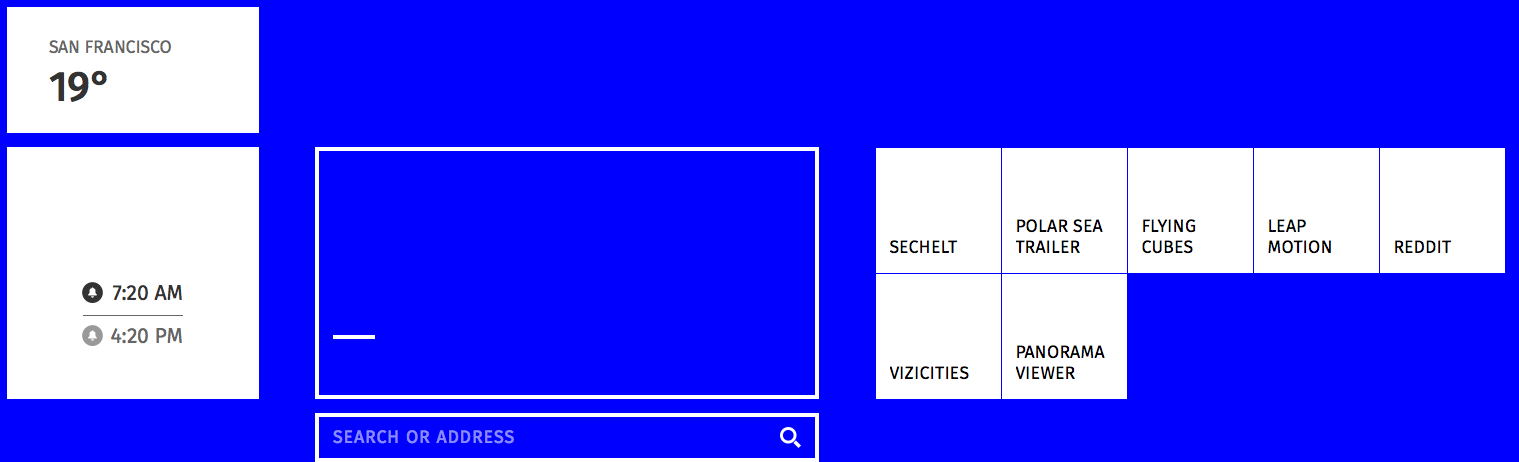
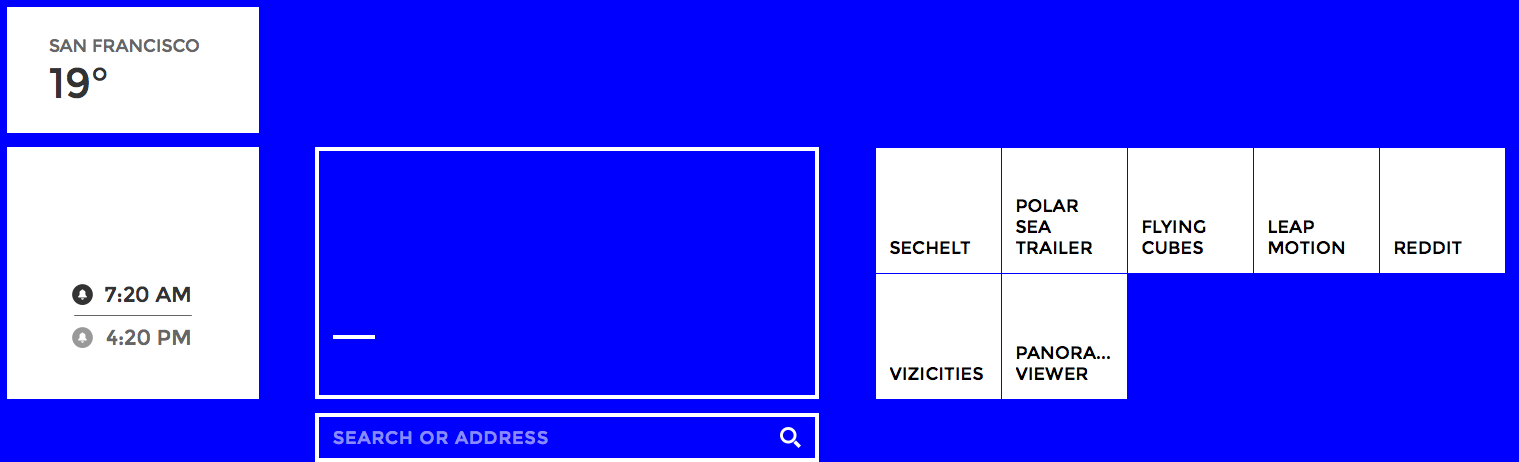
merge pr22, intro page, changed to Montserrat

diff --git a/css/hiro.css b/css/hiro.css
@@ -1,6 +1,7 @@
 html, body {
   height: 100%;
-  font-family: Fira Sans;
+  font-family: 'Montserrat', sans-serif;
+  font-weight: 400;
 }
 
 body {
@@ -9,58 +10,18 @@ body {
   background: #333;
   overflow: hidden;
   margin: 0;
-  font-size: 10px;
-}
-
-.launch {
-  width: 100%;
-  position: absolute;
-  bottom: 0px;
-  left: 0px;
-  text-align: center;
-}
-
-#launch-button {
-  background: #fff;
-  color: #000;
-  width: 200px;
-  height: 40px;
-  font-size: 1.25rem;
-  border: 0;
-  cursor: pointer;
-  text-transform: uppercase;
+  font-size: 12px;
 }
 
 
-#launch-button:hover, #launch-button:active {
-  background: #00CAF2;
-  color: #fff;
-}
+/*---------- CONTAINER ----------*/
 
-.instruction {
-  color: #fff;
-  font-size: 1rem;
-  display: inline-block;
-  margin-top: 1rem;
-  text-transform: uppercase;
-}
-.instruction-letter {
-  display: inline-block;
-  width: 2rem;
-  height: 2rem;
-  line-height: 2rem;
-  border: 1px solid white;
-  margin-bottom: 2rem;
-}
-
-/* containing element that will be made fullscreen */
-#container {
+#container { /* containing element that will be made fullscreen */
 }
 
 #container:-moz-full-screen, #container:-webkit-full-screen {
   cursor: none; /* hides cursor in fullscreen VR mode */
 }
-
 
 .fit {
   position: absolute;
@@ -76,6 +37,83 @@ body {
   left: 0;
   width: 100%;
   height: 100%;
+}
+
+
+/*---------- LAUNCH ----------*/
+
+#launch {
+  width: 100%;
+  position: absolute;
+  bottom: 0px;
+  left: 0px;
+  text-align: center;
+}
+
+#logo {
+  background: url('/content/landing/images/hiro-logo-1.svg') 50% 100% no-repeat;
+  width: 500px;
+  height: 200px;
+  display: inline-block;
+  margin: 0;
+}
+
+#tagline {
+  color: white;
+  font-size: 1rem;
+  text-transform: uppercase;
+  letter-spacing: 0.1rem;
+  margin: 1.5rem;
+
+}
+
+#launch-button {
+  font-family: 'Montserrat', sans-serif;
+  font-weight: 400;
+  background: rgba( 255, 255, 255, 0 );
+  color: #fff;
+  font-size: 2.5rem;
+  letter-spacing: 0.05rem;
+  padding: 0.5rem 1.5rem;
+  border: 0.4rem solid white;
+  text-transform: uppercase;
+  cursor: pointer;
+  box-shadow: -0.5rem 0.5rem 0px rgba( 255, 255, 255, 0.25 );
+}
+
+#launch-button:hover, #launch-button:active {
+  color: rgba( 23, 150, 218, 1 );
+  background: #fff;
+}
+
+#launch-credits {
+  color: white;
+  text-transform: uppercase;
+  letter-spacing: 0.1rem;
+  font-size: 0.8rem;
+  line-height: 1.25rem;
+  padding: 4rem 0 10rem;
+}
+
+#launch-credits b {
+  font-weight: 700;
+}
+
+.instruction {
+  color: #fff;
+  font-size: 1rem;
+  display: inline-block;
+  margin-top: 1rem;
+  text-transform: uppercase;
+}
+
+.instruction-letter {
+  display: inline-block;
+  width: 2rem;
+  height: 2rem;
+  line-height: 2rem;
+  border: 1px solid white;
+  margin-bottom: 2rem;
 }
 
 

diff --git a/index.html b/index.html
@@ -5,7 +5,7 @@
     <title>JAVRIS</title>
     <meta charset="utf-8">
     <link rel="stylesheet" href="css/hiro.css">
-    <link rel="stylesheet" href="fonts/fira/fira.css">
+    <link href='http://fonts.googleapis.com/css?family=Montserrat:400,700' rel='stylesheet' type='text/css'>
   </head>
   <body>
     <!-- this is a containing element that will be made fullscreen -->
@@ -16,14 +16,28 @@
       <!-- This is the container in which all the UI elements load into -->
       <div id="ui" class="fit"></div>
 
-    </div>
-    <div class="launch">
-      <button id="launch-button">Launch VR</button>
+      </div>
+      <div id="launch">
 
-      <br/>
+        <div id="logo"></div>
+        <br/>
+        <div id="tagline">Step into the web</div>
 
-      <div class="instruction">
-        <span class="instruction-letter">Z</span> &nbsp; to center view
+        <br/>
+
+        <button id="launch-button">Enter VR</button>
+
+        <br/>
+
+        <div id="launch-credits">
+
+          Mozilla Research Presents a Virtual Reality Web Experiment<br/>
+          Josh Carpenter  |  Casey Yee  |  Matthew Claypotch<br/>
+          vlad Vukivevic  |  Diego Marcos  |  Ricardo Cabello<br/>
+          <b>Built with WebGL</b>
+
+        </div>
+
       </div>
     </div>
 

diff --git a/content/startup/js/startup_old.js b/content/startup/js/startup_old.js
@@ -4,20 +4,24 @@ function startup() {
 	var worldGeo;
 
 	//background sphere
-
 	worldGeo = new THREE.SphereGeometry( 490, 60, 40 );
 	worldGeo.applyMatrix( new THREE.Matrix4().makeScale( -1, 1, 1 ) );
-	var worldMat = new THREE.MeshBasicMaterial( { transparent: true, opacity: 1, map: THREE.ImageUtils.loadTexture( 'images/bg-3.jpg' ) } );
+	var worldMat = new THREE.MeshBasicMaterial( { transparent: true, opacity: 0, map: THREE.ImageUtils.loadTexture( 'images/sechelt-360-2.png' ) } );
 	var world = new THREE.Mesh( worldGeo, worldMat );
 	scene.add( world );
 
 
-
-
 	/*
+	todo: test geometry to match up VRUi scene to content (this).  See VRUi bug: for more info.
+	*/
+	// var geometry = new THREE.BoxGeometry(1,1,1,5,5,5);
+	// var material = new THREE.MeshBasicMaterial( { color: 0xff0000, wireframe: true } );
+	// var cube = new THREE.Mesh( geometry, material );
+	// cube.scale.set( 50, 50, 50);
+	// scene.add(cube);
+
 
 	//function for exploding objects, from MrDoob
-
 	function explode( geometry, material ) {
 
 		var group = new THREE.Group();
@@ -375,7 +379,6 @@ function startup() {
 
 	}
 
-	*/
 
 	//------------- SITE LOADED -------------//
 
